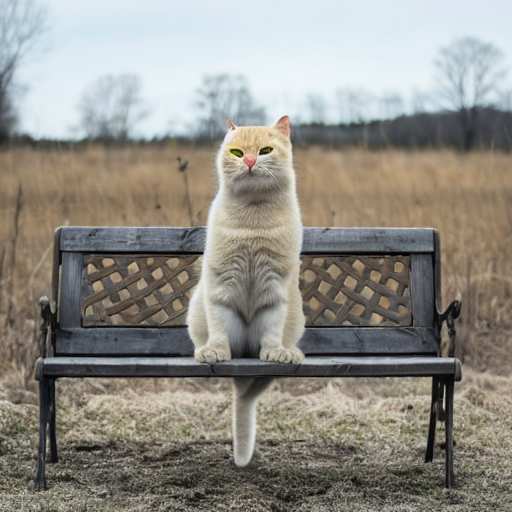
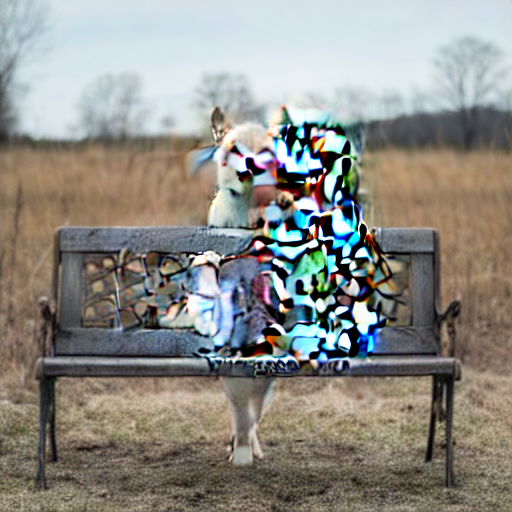
pww inpaint wip

diff --git a/runner_inpaint.py b/runner_inpaint.py
@@ -8,42 +8,24 @@ from paint_with_words import paint_with_words_inpaint
 
 EXAMPLE_SETTING_1 = {
     "color_context": {
-        (51, 193, 217): "yellow cat,2.0,-1",
+        (51, 193, 217): "yellow cat,5.0,-1",
+        (61, 163, 35): "grass land,0.5",
+        (89, 102, 255): "park bench,1.5",
+        (255, 255, 255): "sky,0.5",
     },
     "color_map_img_path": "contents/inpaint_examples/dog_2.png",
-    "input_prompt": "Face of a yellow cat, high resolution, sitting on a park bench",
+    "input_prompt": "Face of a yellow cat, high resolution, sitting on a park bench at the grass land under the sky",
     "output_img_path": "contents/inpaint_examples/cat_output.png",
     "img_path": "contents/inpaint_examples/dog_on_bench.png",
     "mask_path": "contents/inpaint_examples/dog_mask.png",
 }
 
-EXAMPLE_SETTING_2 = {
-    "color_context": {
-        (51, 193, 217): "red parrot,2.0,-1",
-    },
-    "color_map_img_path": "contents/inpaint_examples/dog_1.png",
-    "input_prompt": "a red parrot, high resolution, flying on a park bench",
-    "output_img_path": "contents/inpaint_examples/bird_output.png",
-    "img_path": "contents/inpaint_examples/dog_on_bench.png",
-    "mask_path": "contents/inpaint_examples/dog_mask.png",
-}
-
-EXAMPLE_SETTING_3 = {
-    "color_context": {
-        (51, 193, 217): "flower,2.0,-1",
-    },
-    "color_map_img_path": "contents/inpaint_examples/dog_2.png",
-    "input_prompt": "a flower, high resolution, flying on a park bench",
-    "output_img_path": "contents/inpaint_examples/leaf_output.png",
-    "img_path": "contents/inpaint_examples/dog_on_bench.png",
-    "mask_path": "contents/inpaint_examples/dog_mask.png",
-}
 
 if __name__ == "__main__":
 
     dotenv.load_dotenv()
     
-    settings = EXAMPLE_SETTING_3
+    settings = EXAMPLE_SETTING_1
 
     color_map_image = Image.open(settings["color_map_img_path"]).convert("RGB")
     color_context = settings["color_context"]
@@ -60,9 +42,8 @@ if __name__ == "__main__":
         guidance_scale=7.5,
         device="cuda:0",
         seed=81,
-        # weight_function=lambda w, sigma, qk: 0.4 * w * math.log(1 + sigma) * qk.max(),
-        weight_function=lambda w, sigma, qk: 0.2 * w * math.log(1 + sigma) * qk.max(),
-        strength = 0.7,
+        weight_function=lambda w, sigma, qk: 0.4 * w * math.log(1 + sigma) * qk.max(),
+        strength = 0.5,
     )
 
     img.save(settings["output_img_path"])
